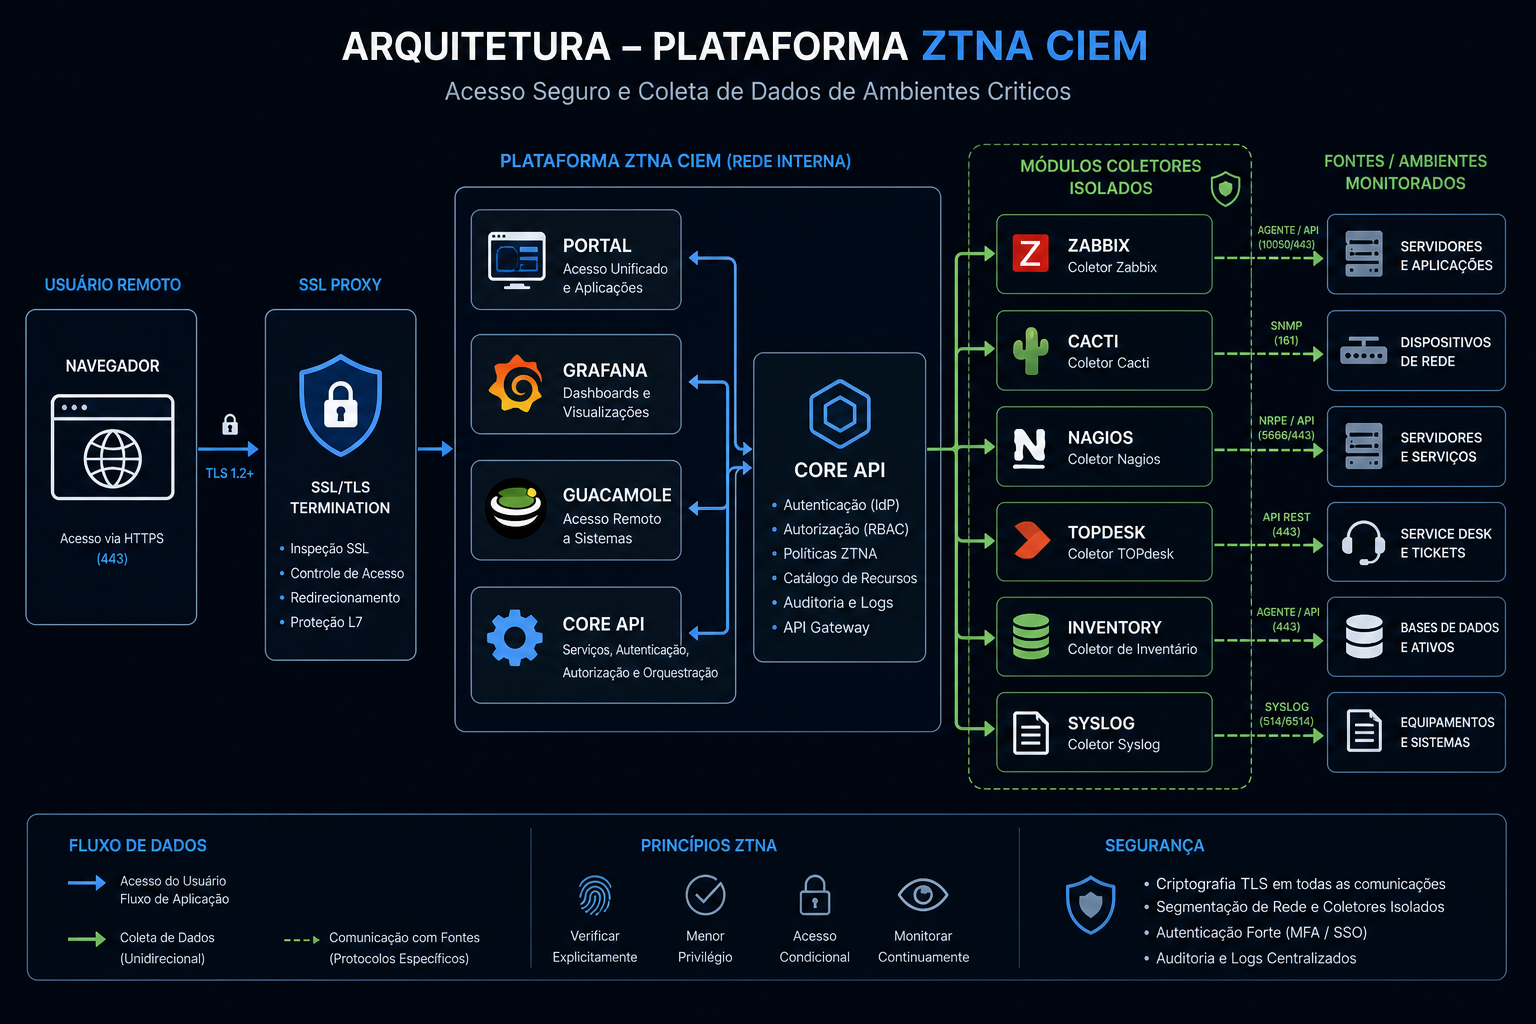
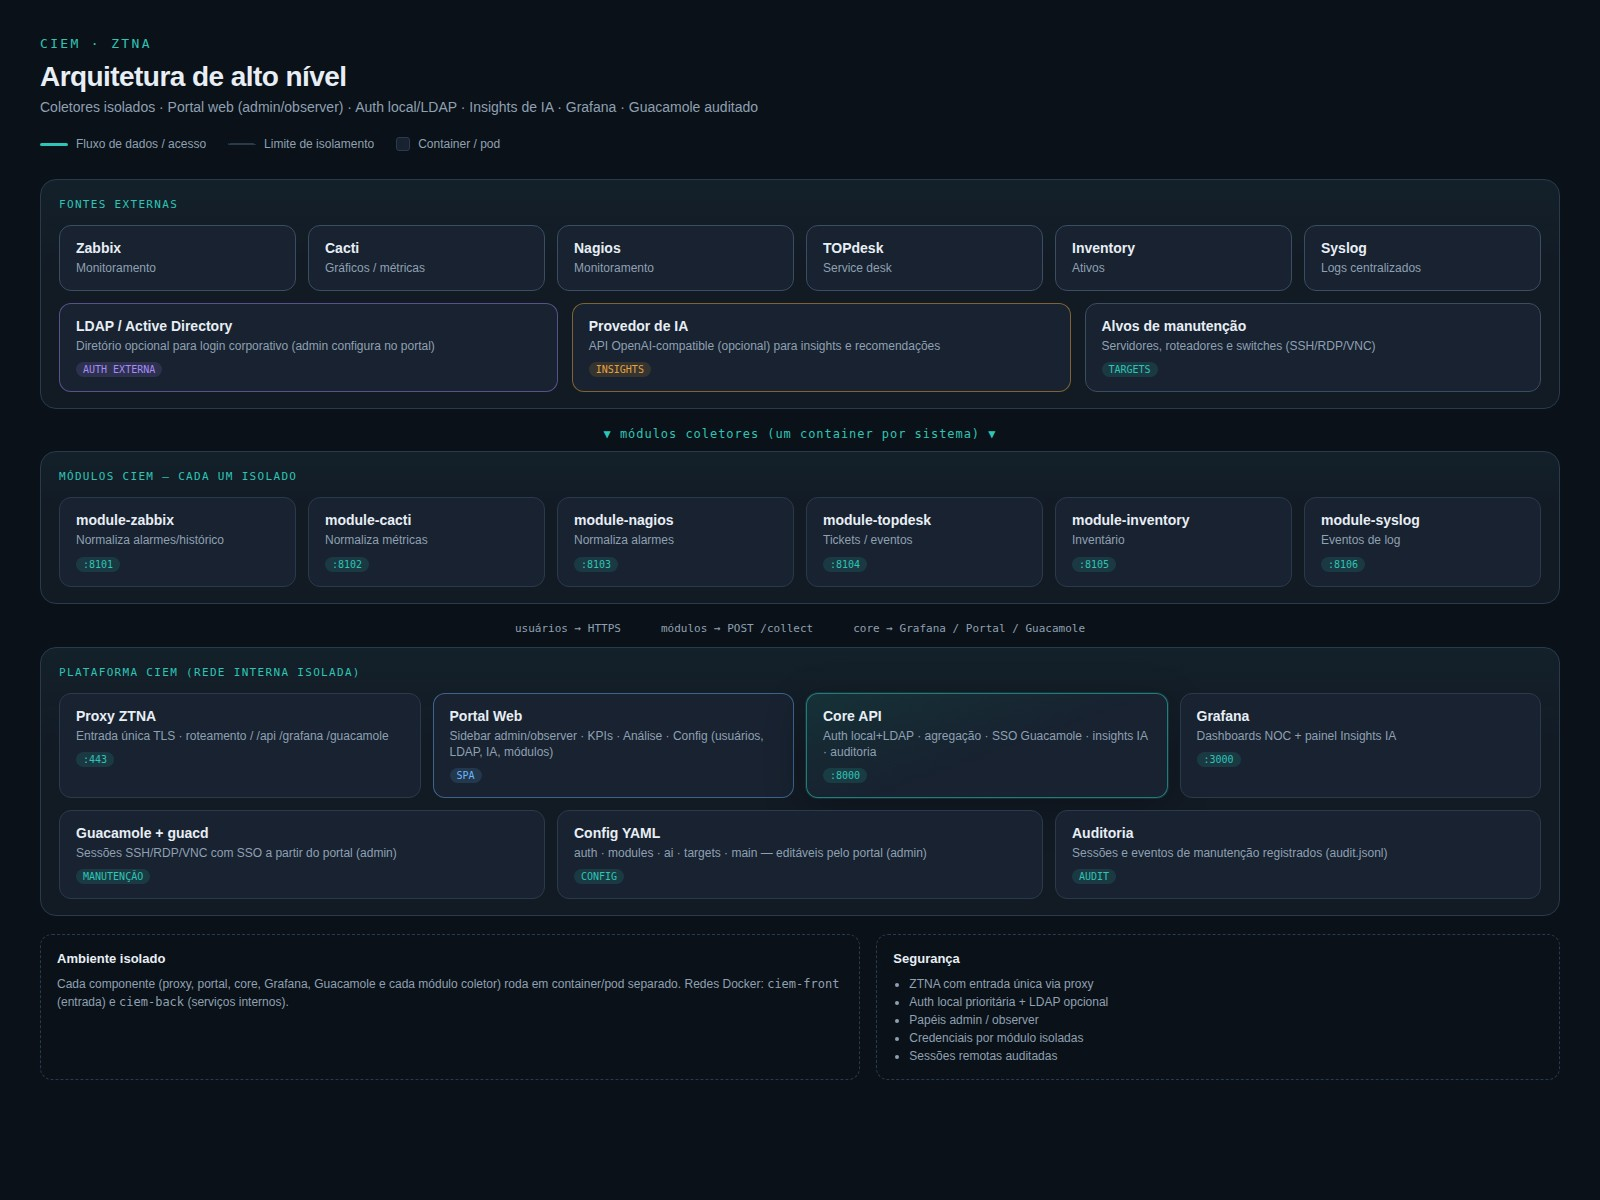
docs: atualiza diagrama de arquitetura com Portal, LDAP e IA
Regenera o diagrama visual e o mermaid em ARCHITECTURE.md para refletir
portal web, auth local/LDAP, insights de IA, Grafana e Guacamole.

diff --git a/docs/ARCHITECTURE.md b/docs/ARCHITECTURE.md
@@ -5,8 +5,11 @@
 O **CIEM** (Centro Integrado de Estatística e Manutenção) é uma plataforma ZTNA que combina:
 
 1. **Coleta** — dados de sistemas de monitoramento existentes (sem dependência do CIEM)
-2. **Visualização** — Grafana com alarmes ativos em destaque e histórico separado
-3. **Manutenção** — sessões SSH/RDP/VNC via Guacamole com auditoria completa
+2. **Portal** — interface web para admin e observer (KPIs, Análise, configuração por seções)
+3. **Visualização** — Grafana com alarmes ativos em destaque, histórico e Insights de IA
+4. **Autenticação** — usuários locais (prioritários) + LDAP/AD opcional
+5. **Insights de IA** — provedor OpenAI-compatible opcional (config só admin; resultados para todos)
+6. **Manutenção** — sessões SSH/RDP/VNC via Guacamole com auditoria completa
 
 ## Princípio de isolamento
 
@@ -24,7 +27,9 @@ Isso garante:
 ```mermaid
 graph TB
     subgraph "Rede Externa"
-        ADMIN[Sysadmin]
+        ADMIN[Usuários admin/observer]
+        LDAP[LDAP / Active Directory]
+        AI[Provedor de IA]
         EXT_ZBX[Zabbix]
         EXT_CAC[Cacti]
         EXT_NAG[Nagios]
@@ -35,16 +40,16 @@ graph TB
     end
 
     subgraph "CIEM — Proxy (isolado)"
-        PROXY[Nginx SSL Wildcard]
+        PROXY[Nginx SSL / ZTNA]
     end
 
-    subgraph "CIEM — Core (isolado)"
-        CORE[API ZTNA]
+    subgraph "CIEM — Core e Portal (isolados)"
         PORTAL[Portal Web]
+        CORE[Core API]
     end
 
     subgraph "CIEM — Visualização (isolado)"
-        GRAF[Grafana]
+        GRAF[Grafana + Insights IA]
     end
 
     subgraph "CIEM — Manutenção (isolado)"
@@ -68,6 +73,8 @@ graph TB
     PROXY --> GUAC
 
     CORE --> MOD_ZBX & MOD_CAC & MOD_NAG & MOD_TD & MOD_INV & MOD_SYS
+    CORE -.->|auth opcional| LDAP
+    CORE -.->|insights opcional| AI
     MOD_ZBX -->|API| EXT_ZBX
     MOD_CAC -->|Web| EXT_CAC
     MOD_NAG -->|API| EXT_NAG
@@ -93,13 +100,22 @@ Sistema externo → Módulo coletor → POST /collect → Core API → Grafana
 - Retorna JSON normalizado: `active_alarms[]` + `history_events[]`
 - O core agrega dados de todos os módulos habilitados
 
-### 2. Visualização (Grafana)
+### 2. Visualização (Portal + Grafana)
 
-- **Alarmes ativos** — banner vermelho no portal + painel dedicado no Grafana
-- **Histórico** — painel separado com eventos passados
-- Dashboards provisionados automaticamente em `grafana/dashboards/`
+- **Portal** — Visão geral (KPIs/gráfico), Alarmes, Histórico e Análise
+- **Insights de IA** — quando habilitados pelo admin, visíveis a todos no portal e no Grafana
+- **Grafana** — dashboards NOC provisionados em `grafana/dashboards/`
 
-### 3. Manutenção (Guacamole → alvos)
+### 3. Autenticação
+
+```
+Login → usuários locais (prioridade) → LDAP/AD (se habilitado)
+```
+
+- Admin configura LDAP e usuários em **Configuração** no portal
+- Papéis: `admin` (config + sessões) e `observer` (somente leitura/análise)
+
+### 4. Manutenção (Guacamole → alvos)
 
 ```
 Admin → Portal → Core API → Guacamole → guacd → Equipamento
